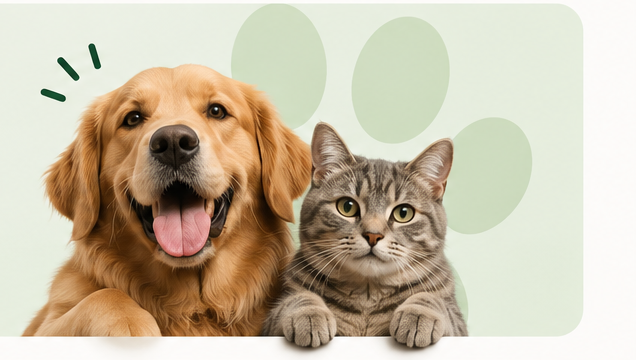
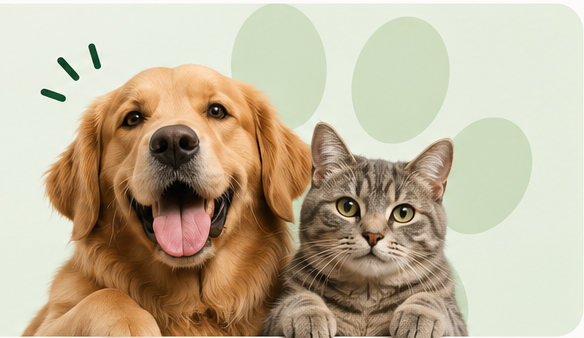
Add files via upload

diff --git a/index.html b/index.html
@@ -11,7 +11,7 @@
 <main>
   <section class="hero hero-modern" id="inicio"><div class="hero-copy"><span class="eyebrow">UMA VIZINHANÇA QUE CUIDA</span><h1>Cuidando dos pets<br><em>da nossa comunidade</em></h1><p>Cadastre seu pet, avise se ele fugiu, registre quando avistá-lo no bairro e ajude a reunir pets e tutores novamente.</p><div class="hero-actions"><button class="button button-primary" id="openForm">＋ Cadastrar meu pet</button><button class="button button-ghost" id="openLostForm">♧ Registrar alerta</button></div></div><div class="hero-photo-wrap" aria-hidden="true"><img class="hero-photo" src="hero-pets.png" alt="Cachorro e gato da comunidade"></div></section>
   <section class="stats stats-modern" aria-label="Resumo dos pets"><div><span class="stat-icon stat-pets" aria-hidden="true"><svg viewBox="0 0 24 24"><path d="M8 10.5c1.2 0 2-1.2 2-2.7S9.2 5 8 5 6 6.2 6 7.8s.8 2.7 2 2.7Zm8 0c1.2 0 2-1.2 2-2.7S17.2 5 16 5s-2 1.2-2 2.8.8 2.7 2 2.7ZM4.5 15c1 0 1.8-1 1.8-2.2s-.8-2.2-1.8-2.2-1.8 1-1.8 2.2S3.5 15 4.5 15Zm15 0c1 0 1.8-1 1.8-2.2s-.8-2.2-1.8-2.2-1.8 1-1.8 2.2.8 2.2 1.8 2.2ZM12 12c-3.2 0-6.5 3.5-6.5 6.1A2.9 2.9 0 0 0 8.4 21c1.2 0 2.2-.6 3.6-.6s2.4.6 3.6.6a2.9 2.9 0 0 0 2.9-2.9C18.5 15.5 15.2 12 12 12Z"/></svg></span><strong id="approvedCount">0</strong><span>pets cadastrados</span></div><div><span class="stat-icon stat-found" aria-hidden="true"><svg viewBox="0 0 24 24"><path d="M20 10c0 5-8 12-8 12S4 15 4 10a8 8 0 1 1 16 0Z"/><circle cx="12" cy="10" r="2.5"/></svg></span><strong id="foundCount">0</strong><span>pets encontrados na rua</span></div></section>
-  <section class="quick-actions"><button class="quick-card quick-lost" id="quickLost"><span class="quick-icon"><svg viewBox="0 0 24 24"><path d="M12 21c-2.5-2-6-4.3-6-9V6l6-3 6 3v6c0 4.7-3.5 7-6 9Z"/><path d="M9 12h6m-3-3v6"/></svg></span><span><b>Meu pet fugiu</b><small>Crie um alerta e compartilhe o link do seu pet.</small></span><i>→</i></button><button class="quick-card quick-sighting" id="quickSighting"><span class="quick-icon"><svg viewBox="0 0 24 24"><path d="M2 12s3.5-7 10-7 10 7 10 7-3.5 7-10 7S2 12 2 12Z"/><circle cx="12" cy="12" r="3"/></svg></span><span><b>Avisei um pet na rua</b><small>Informe qual animal viu, onde e quando.</small></span><i>→</i></button><button class="quick-card quick-share" id="quickShare"><span class="quick-icon"><svg viewBox="0 0 24 24"><path d="M10 13.5 14 9.5M8 16l-1 1a4 4 0 0 1-5.7-5.7l4-4A4 4 0 0 1 11 7m5 1 1-1a4 4 0 0 1 5.7 5.7l-4 4A4 4 0 0 1 13 17"/></svg></span><span><b>Compartilhar pet</b><small>Envie o link individual de um pet para o grupo.</small></span><i>→</i></button></section>
+  <section class="quick-actions"><button class="quick-card quick-lost" id="quickLost"><span class="quick-icon"><svg viewBox="0 0 24 24"><path d="M18 9a6 6 0 0 0-12 0c0 7-3 7-3 9h18c0-2-3-2-3-9Z"/><path d="M10 21h4"/><path d="M19 3v4m-2-2h4"/></svg></span><span><b>Meu pet fugiu</b><small>Crie um alerta e compartilhe o link do seu pet.</small></span><i>→</i></button><button class="quick-card quick-sighting" id="quickSighting"><span class="quick-icon"><svg viewBox="0 0 24 24"><path d="M2 12s3.5-7 10-7 10 7 10 7-3.5 7-10 7S2 12 2 12Z"/><circle cx="12" cy="12" r="3"/></svg></span><span><b>Avisei um pet na rua</b><small>Informe qual animal viu, onde e quando.</small></span><i>→</i></button><button class="quick-card quick-share" id="quickShare"><span class="quick-icon"><svg viewBox="0 0 24 24"><path d="M10 13.5 14 9.5M8 16l-1 1a4 4 0 0 1-5.7-5.7l4-4A4 4 0 0 1 11 7m5 1 1-1a4 4 0 0 1 5.7 5.7l-4 4A4 4 0 0 1 13 17"/></svg></span><span><b>Compartilhar pet</b><small>Envie o link individual de um pet para o grupo.</small></span><i>→</i></button></section>
   <section class="dashboard-panels"><div class="dashboard-panel"><div class="panel-title"><h2><svg class="heading-icon" viewBox="0 0 24 24"><path d="M18 9a6 6 0 0 0-12 0c0 7-3 7-3 9h18c0-2-3-2-3-9ZM10 21h4"/></svg> Alertas ativos</h2><a href="#pets">Ver pets →</a></div><div id="lostAlerts" class="mini-list"><p class="panel-empty">Nenhum alerta de desaparecimento ativo.</p></div></div><div class="dashboard-panel sightings-panel"><div class="panel-title"><h2><svg class="heading-icon" viewBox="0 0 24 24"><path d="M2 12s3.5-7 10-7 10 7 10 7-3.5 7-10 7S2 12 2 12Z"/><circle cx="12" cy="12" r="3"/></svg> Vistos recentemente</h2><a href="#encontrados">Ver todos →</a></div><div id="recentSightings" class="mini-list"><p class="panel-empty">Nenhum avistamento recente.</p></div></div></section>
   <section class="section" id="pets"><div class="section-heading"><div><span class="eyebrow">QUEM FAZ PARTE</span><h2>Pets do bairro</h2><p>Encontre pelo nome ou por alguma característica.</p></div><button class="button button-primary" id="openFormSection">＋ Cadastrar pet</button></div>
     <div class="filters"><label class="search"><span>⌕</span><input id="searchInput" type="search" placeholder="Buscar pet, raça ou característica..." aria-label="Buscar pets"></label><select id="typeFilter" aria-label="Filtrar por espécie"><option value="todos">Todos os pets</option><option value="Cachorro">Cachorros</option><option value="Gato">Gatos</option><option value="Outro">Outros</option></select></div>

diff --git a/admin.html b/admin.html
@@ -6,11 +6,17 @@
   <title>Administração · Pets Bela Vista</title>
 </head>
 <body>
-<header class="topbar"><a class="brand" href="/" aria-label="Pets Bela Vista - início"><span class="brand-mark">🐾</span><span><b>Pets Bela Vista</b><small>Área administrativa</small></span></a></header>
-<main class="section" style="max-width:980px;margin:3rem auto;">
-  <div class="section-heading"><div><span class="eyebrow">ACESSO RESTRITO</span><h2>Área do administrador</h2><p>Entre com o e-mail e a senha da conta administradora cadastrada no Firebase Authentication.</p></div></div>
-  <section class="admin-panel" style="display:block;">
-    <div class="admin-login" id="adminLogin"><label>E-mail<input type="email" id="adminEmail" placeholder="E-mail da administradora" autocomplete="username"></label><label>Senha<input type="password" id="adminPassword" placeholder="Sua senha" autocomplete="current-password"></label><button class="button button-primary" id="loginBtn">Entrar</button><small>Acesso restrito. Se o login falhar, confirme se esta conta possui o UID administrador configurado em firebase-config.js.</small></div>
+<header class="topbar admin-topbar">
+  <a class="brand" href="/" aria-label="Pets Bela Vista - início"><span class="brand-mark">🐾</span><span><b>Pets Bela Vista</b><small>Nossa comunidade, nossos pets</small></span></a>
+  <nav class="admin-nav" aria-label="Navegação principal">
+    <a href="/#inicio">⌂ <span>Início</span></a><a href="/#pets">♧ <span>Pets cadastrados</span></a><a href="/#encontrados">⌖ <span>Pets encontrados</span></a><a href="/#alertas">♧ <span>Alertas</span></a>
+  </nav>
+  <a class="admin-home-link" href="/">Voltar ao site <span>↗</span></a>
+</header>
+<main class="section admin-page" style="max-width:1120px;margin:2.5rem auto;">
+  <div class="section-heading"><div><span class="eyebrow">ÁREA RESTRITA</span><h2>Administração</h2><p>Gerencie cadastros, animais encontrados, reivindicações e alertas de desaparecimento.</p></div></div>
+  <section class="admin-panel admin-page-panel">
+    <div class="admin-login" id="adminLogin"><h3 class="admin-login-title">Entrar na administração</h3><label>E-mail<input type="email" id="adminEmail" placeholder="E-mail da administradora" autocomplete="username"></label><label>Senha<input type="password" id="adminPassword" placeholder="Sua senha" autocomplete="current-password"></label><button class="button button-primary" id="loginBtn">Entrar</button><small>Acesso exclusivo da conta administradora cadastrada no Firebase.</small></div>
     <div id="adminContent" hidden><div class="admin-head"><h3>Solicitações para analisar <span class="count-pill" id="pendingCount">0</span></h3><button class="text-btn" id="logoutBtn">Sair</button></div><div id="pendingList" class="pending-list"></div><div class="admin-tools"><button class="text-btn" id="exportBtn">Exportar cadastros (JSON)</button></div></div>
   </section>
 </main>

diff --git a/styles.css b/styles.css
@@ -22,3 +22,25 @@
 .panel-title h2{display:flex;align-items:center;gap:9px}
 .heading-icon{width:22px;height:22px;fill:none;stroke:#245b3b;stroke-width:1.8;stroke-linecap:round;stroke-linejoin:round;flex-shrink:0}
 @media(max-width:800px){.hero-photo-wrap{position:absolute;right:-55px;bottom:-25px;width:58%;height:210px;opacity:.82}.hero-photo{object-position:center bottom}.hero-modern .hero-copy{z-index:2}.stats-modern div{gap:7px}.stat-icon{width:42px;height:42px;border-radius:13px}.stat-icon svg{width:24px;height:24px}}
+
+
+/* Refinements: clear hero photo, notification action icon, and consistent admin header */
+.hero-photo-wrap{width:min(44%,560px);height:310px;overflow:hidden;border-radius:22px;background:linear-gradient(120deg,#edf3e7,#dce9d6);box-shadow:0 18px 38px rgba(42,69,45,.08)}
+.hero-photo{width:100%;height:100%;object-fit:cover;object-position:center center;mix-blend-mode:normal;filter:none;border-radius:22px}
+.quick-lost .quick-icon{position:relative}
+.quick-lost .quick-icon:after{content:"!";position:absolute;right:5px;top:4px;width:17px;height:17px;border-radius:50%;display:grid;place-items:center;background:#c94f43;color:#fff;border:2px solid #dce9ca;font:bold 11px/1 sans-serif}
+.admin-topbar{gap:24px;border-bottom:1px solid #edf0e9}
+.admin-nav{display:flex;align-items:center;gap:8px;margin-left:auto}
+.admin-nav a{display:inline-flex;align-items:center;gap:7px;padding:11px 14px;border-radius:24px;text-decoration:none;color:#263b2d;font-size:13px;font-weight:700;white-space:nowrap}
+.admin-nav a:first-child{background:#edf3e7}
+.admin-nav a:hover{background:#edf3e7}
+.admin-home-link{padding:11px 16px;border:1px solid #dce5d9;border-radius:24px;text-decoration:none;color:#315b43;font-size:13px;font-weight:700;white-space:nowrap}
+.admin-page{padding-top:42px}
+.admin-page-panel{border:1px solid var(--line);border-radius:18px;margin-top:24px;padding:26px;background:#fff;box-shadow:0 12px 34px rgba(36,70,50,.06)}
+.admin-login{align-items:stretch;max-width:780px}
+.admin-login-title{flex-basis:100%;font:800 20px Manrope;margin:0 0 4px;color:#26352b}
+.admin-login label{flex:1;min-width:220px}
+.admin-login input{width:100%;height:44px}
+.admin-login .button{height:44px;min-width:120px}
+@media(max-width:900px){.admin-topbar{height:auto;min-height:76px;flex-wrap:wrap;padding:12px 20px;gap:10px}.admin-nav{order:3;width:100%;overflow:auto;margin:0;justify-content:flex-start}.admin-nav a{font-size:12px;padding:9px 11px}.admin-home-link{margin-left:auto}}
+@media(max-width:800px){.hero-photo-wrap{width:58%;height:210px;right:-45px;bottom:-20px;border-radius:18px}.hero-photo{object-position:center center}.admin-page{padding-top:24px}.admin-page-panel{padding:18px}.admin-login{flex-direction:column}.admin-login label{min-width:0}.admin-login .button{width:100%}}
